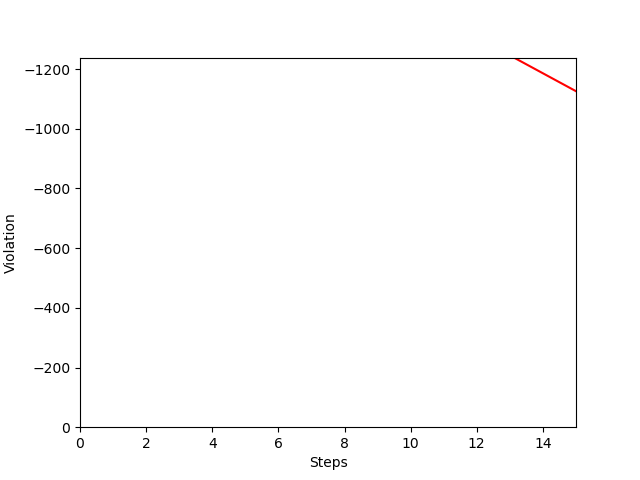
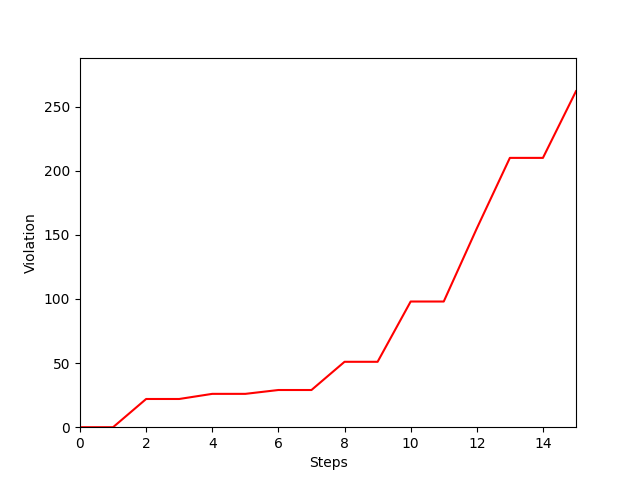
small changes

diff --git a/AUG_model.py b/AUG_model.py
@@ -77,25 +77,4 @@ class AUGTimetable(Timetable):
             self.vio_record.append(self.total_vio())
             self.upper_record.append(self.upper_bound())
             self.lower_record.append(self.lower_bound())
-    
-    def optim(self):
-        for i in range(self.max_steps):
-            time1 = time.time()
-            self._optim_loop()
-            time2 = time.time()
-            self.time_record.append(time2-time1)
-            text = f"--------------------Process ({i+1}/{self.max_steps})--------------------"
-            metrics = self.metric()
-            for name, value in metrics.items():
-                text += f"\n{name}: {value}"
-            print(text)
-            if (self.lower_record[-1] <= self.upper_record[-1]) and (abs(self.upper_record[-1] - self.lower_record[-1]) < self.threshold * abs(self.upper_record[-1])):
-                print("--------------------Trying SPP ... --------------------")
-                
-                result = self.SPP()
-                print(f"SPP result {result} Trains: {self.total_train(True)}")
-                if result == True:
-                    print("Successfully arranged!!!")
-                    break 
-        self.draw_figure()
             

diff --git a/config.py b/config.py
@@ -50,6 +50,6 @@ class basic_config():
     time_costs: list = time_cost # time cost of between stations of trains
     dist_list: list = dist_list # distance list of the stations
     threshold: float = 0.1 # Threshold for SPP
-    sigma: float = 1.5 # sigma used in AUG model
+    sigma: float = 1 # sigma used in AUG model
     
 
